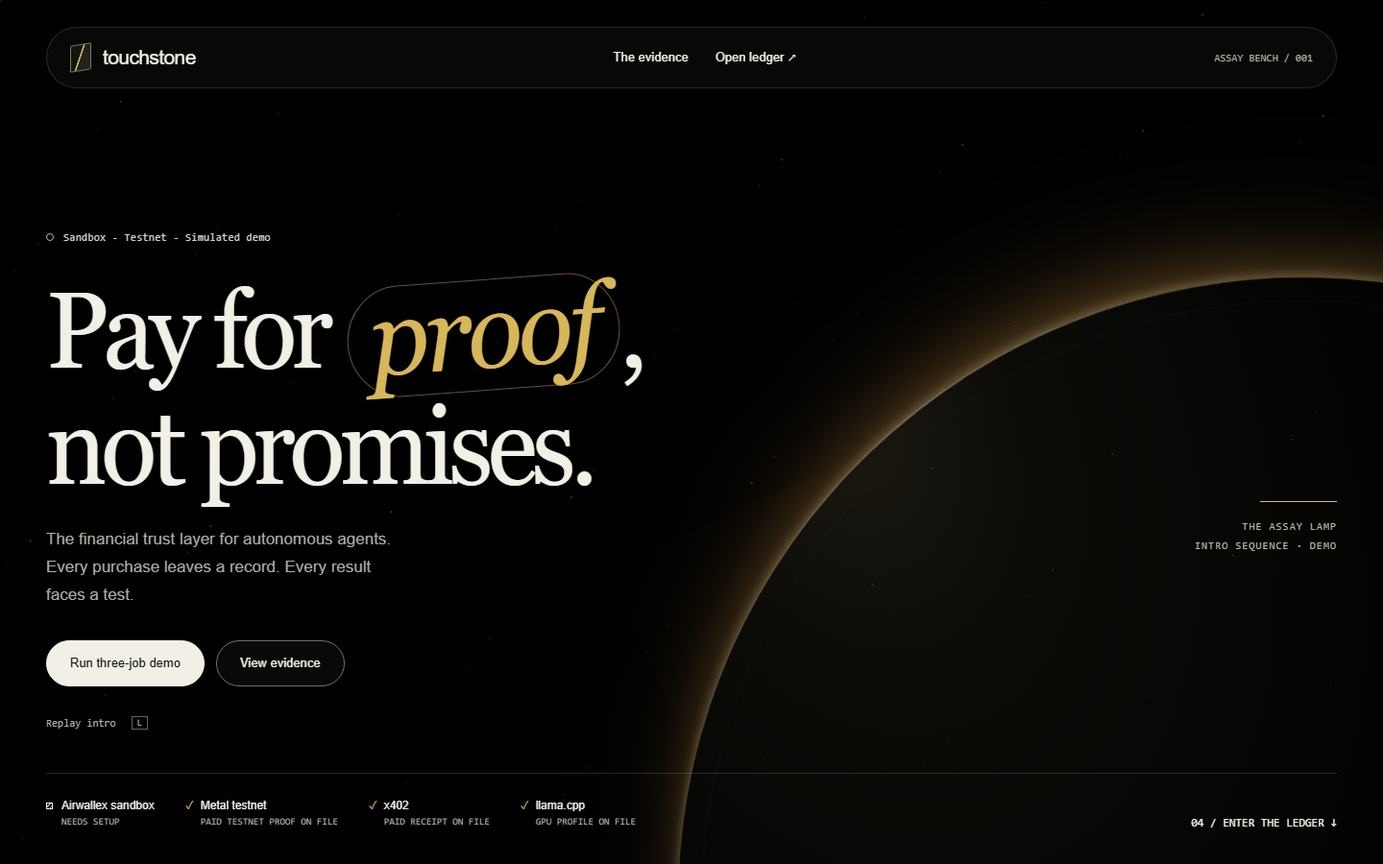
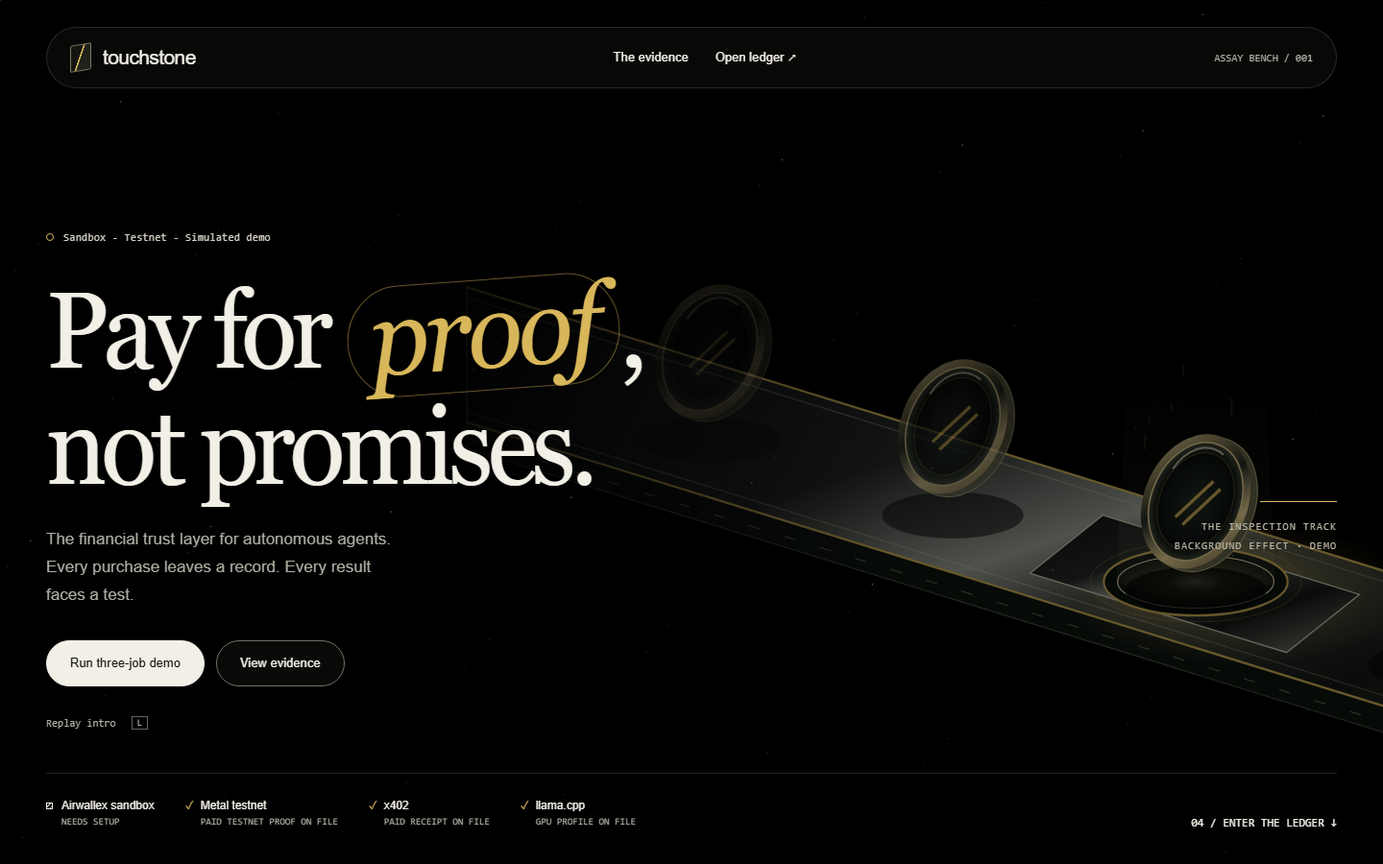
Replace hero horizon with recording-inspired inspection track

diff --git a/apps/dashboard/index.html b/apps/dashboard/index.html
@@ -13,7 +13,7 @@
 :root{color-scheme:dark;--ink:#090a08;--paper:#f2efe6;--gold:#d8b65a;--muted:#adb0a4;--line:#303329;--text:#f2efe6;--surface:#090a08;--green:#8ac595;--amber:#d8b65a;--red:#f07868;--mono:Consolas,monospace;--ease:cubic-bezier(.16,1,.3,1)}
 *{box-sizing:border-box}html{scroll-behavior:smooth;scroll-padding-top:88px}body{margin:0;background:var(--ink);color:var(--text);font:16px/1.5 Arial,sans-serif}button,input,select{font:inherit}button,a,input,select{touch-action:manipulation}button,a{ -webkit-tap-highlight-color:transparent}button{cursor:pointer}button:disabled{cursor:not-allowed;opacity:.48}a{color:inherit;text-underline-offset:4px}a:hover{color:var(--gold)}:focus-visible{outline:3px solid var(--gold);outline-offset:5px}h1,h2,h3,p{margin:0}h2{font-size:26px;font-weight:400;line-height:1.2;letter-spacing:-.7px}h3{font-size:18px;font-weight:500}p{max-width:75ch}em{font-style:normal}button{border:1px solid var(--line);color:inherit;background:transparent}svg{display:block} .hidden{display:none!important}.mono,kbd,.value,.metric-label,.eyebrow,.badge,.pill,.state,.job-id,.job-numbers strong,.section-title>span,.top-status{font-family:var(--mono);font-variant-numeric:tabular-nums} .eyebrow{font-size:12px;letter-spacing:1.4px;text-transform:uppercase} .skip-link{position:fixed;left:24px;top:-100px;z-index:30;padding:12px;background:var(--paper);color:var(--ink)}.skip-link:focus{top:16px}
 /* A single overhead lamp. The atmosphere belongs to the bench, not the UI. */
-.cinematic-hero{height:max(820px,100svh);max-height:1200px;position:relative;isolation:isolate;overflow:hidden;background:#000;color:#f2efe6;--gold:#d8b65a;--line:#303329;--muted:#adb0a4}#starfield{position:absolute;inset:0;width:100%;height:100%;z-index:-3;opacity:.45}.horizon-shift{position:absolute;inset:0;z-index:-2;pointer-events:none;opacity:.48;transition:opacity 300ms var(--ease),filter 300ms var(--ease)}.horizon{position:absolute;width:1300px;height:1300px;left:49%;top:32%;border-radius:50%;background:radial-gradient(ellipse at 32% 0%,#393121 0%,#171710 15%,#050604 41%,#000 68%);border-top:1px solid #e2bd69;box-shadow:0 -4px 12px -3px #f6d58e,0 -28px 70px -36px #d8a34e,0 -90px 150px -100px #b9833f;transform:rotate(-24deg);opacity:0}.horizon:after{content:'';position:absolute;inset:24px;border:1px solid #bcb38b16;border-radius:50%}.rim-highlight{position:absolute;inset:-1px;border-radius:50%;border-top:2px solid #f8e6b8;mask-image:linear-gradient(115deg,transparent 2%,#000 26%,transparent 49%)}.is-active .horizon{animation:ignite 2.5s var(--ease) both}@keyframes ignite{from{opacity:0;transform:translateY(80px) rotate(-24deg)}35%{opacity:.6}to{opacity:1;transform:translateY(0) rotate(-24deg)}}.cinematic-hero:not(.in-view) *,.tab-hidden *{animation-play-state:paused!important}
+.cinematic-hero{height:max(820px,100svh);max-height:1200px;position:relative;isolation:isolate;overflow:hidden;background:#000;color:#f2efe6;--gold:#d8b65a;--line:#303329;--muted:#adb0a4}#starfield{position:absolute;inset:0;width:100%;height:100%;z-index:-3;opacity:.45}.horizon-shift{mask-image:linear-gradient(90deg,transparent 26%,#000 65%);position:absolute;inset:0;z-index:-2;pointer-events:none;opacity:.48;transition:opacity 300ms var(--ease),filter 300ms var(--ease)}.horizon{position:absolute;width:1100px;height:792px;left:46%;top:16%;opacity:0;transform-origin:center}.assay-track{width:100%;height:100%;overflow:visible}.is-active .horizon{animation:ignite 2.5s var(--ease) both}@keyframes ignite{from{opacity:0;transform:translate(-55px,-17px)}35%{opacity:.65}to{opacity:1;transform:translate(0,0)}}body[data-event-light="intro"] .is-active .assay-discs{animation:assay-feed 2.5s var(--ease) both}@keyframes assay-feed{from{transform:translate(-100px,-31px)}to{transform:translate(0,0)}}.scan-beam,.scan-sparks{opacity:.12}body[data-event-light="intro"] .is-active .scan-beam,body[data-event-light="intro"] .is-active .scan-sparks{animation:assay-scan 2.5s var(--ease) both}@keyframes assay-scan{0%,100%{opacity:.12}45%,70%{opacity:.8}}.event-pulse .assay-discs{animation:assay-advance 320ms var(--ease)}.event-pulse .scan-beam{animation:assay-scan 320ms var(--ease)}@keyframes assay-advance{from{transform:translate(-24px,-7.4px)}to{transform:translate(0,0)}}.cinematic-hero:not(.in-view) *,.tab-hidden *{animation-play-state:paused!important}
 body[data-event-light="intro"] .horizon-shift{opacity:1}body[data-event-light="running"] .horizon-shift{opacity:1}body[data-event-light="pause"] .horizon-shift{opacity:.3;filter:saturate(.2)}body[data-event-light="rejected"] .horizon-shift{filter:sepia(.4) saturate(3) hue-rotate(315deg)}body[data-event-light="kill"] .horizon-shift,body[data-event-light="kill"] #starfield{opacity:0!important}.event-pulse .horizon-shift{animation:payment-light 320ms var(--ease)}@keyframes payment-light{50%{filter:brightness(1.5)}}
 .glass-nav{position:absolute;top:28px;left:48px;right:48px;height:64px;display:flex;align-items:center;justify-content:space-between;padding:0 24px;border:1px solid #ffffff24;border-radius:40px;background:#d6d1b10a;backdrop-filter:blur(14px);z-index:2}.brand{display:flex;align-items:center;gap:12px;font-size:21px;letter-spacing:-.6px}.mark{display:inline-block;width:22px;height:28px;background:linear-gradient(110deg,#14150f 43%,#d8b65a 45%,#d8b65a 49%,#20231a 51%);border:1px solid #797867;transform:skewY(-10deg);border-radius:2px}.brand-sub{font:11px var(--mono);letter-spacing:1px;color:var(--muted)}nav{display:flex;gap:28px;align-items:center}nav a{text-decoration:none;font-size:13px;min-height:44px;display:inline-flex;align-items:center}.nav-index{font:11px var(--mono);color:var(--muted)}.hero-copy{position:relative;z-index:1;padding:clamp(192px,26vh,272px) 48px 0;max-width:1000px}.hero-chip{display:inline-flex;align-items:center;gap:10px;font:11px var(--mono);letter-spacing:.3px;color:#d5d1c6}.hero-chip-dot{width:8px;height:8px;border:1px solid #d8b65a;border-radius:50%}#hero-title{font:400 clamp(72px,7.8vw,120px)/1.05 Georgia,serif;letter-spacing:-6px;margin:28px 0 24px;transform:scaleX(.95);transform-origin:left center}.hero-highlight{display:inline-block;font-style:italic;color:var(--gold);border:1px solid #d8b65a77;border-radius:90px;padding:0 24px 8px;line-height:.94;transform:rotate(-4deg);letter-spacing:-5px}.hero-subhead{font-size:17px;line-height:1.7;max-width:360px;color:#adb0a4}.hero-actions{display:flex;gap:12px;margin-top:32px;align-items:center}.hero-button,.btn{display:inline-flex;align-items:center;justify-content:center;min-height:44px;padding:12px 20px;border:1px solid var(--line);font-size:13px;font-weight:500;text-decoration:none;transition:background 150ms var(--ease),border-color 150ms var(--ease)}.hero-button{border-radius:40px;min-height:48px;padding:12px 24px}.hero-primary{background:#f2efe6;color:#151710;border-color:#f2efe6}.hero-primary:hover{background:#d8b65a;border-color:#d8b65a}.hero-secondary{border-color:#707366;color:#f2efe6;background:#090a08}.hero-secondary:hover{background:#20231a;color:#fff}.replay-intro{display:inline-flex;align-items:center;gap:16px;min-height:44px;font:11px var(--mono);color:#adb0a4;border:0;padding:0;margin-top:16px}kbd{border:1px solid #62665a;padding:0 5px;font-size:10px}.assay-caption{position:absolute;right:48px;top:58%;font:11px/1.8 var(--mono);color:#b9b5a4;letter-spacing:1px;text-align:right}.assay-caption:before{content:'';display:block;width:80px;height:1px;background:#d8b65a;margin:0 0 16px auto}.hero-bottom{position:absolute;bottom:36px;left:48px;right:48px;display:flex;justify-content:space-between;align-items:end;border-top:1px solid #ffffff24;padding-top:24px;gap:32px}.hero-bottom>a{font:12px var(--mono);text-decoration:none}.hero-platforms{display:flex;gap:32px}.platform-state{display:grid;grid-template-columns:8px auto;column-gap:8px;align-items:center;font-size:12px}.platform-state small{grid-column:2;font:10px/1.6 var(--mono);color:#adb0a4;max-width:150px}.health-dot,.dot{display:inline-block;width:7px;height:7px;border-radius:50%;background:transparent;border:1px solid currentColor;flex-shrink:0}.health-dot.verified{border:0;border-radius:0;width:auto;height:auto;color:#d8b65a}.health-dot.verified:before{content:'✓'}.health-dot.blocked{border-radius:0;background:repeating-linear-gradient(135deg,transparent 0 2px,#adb0a4 2px 3px)}
 /* Ledger: one ruled worksheet, no stack of glass boxes. */
@@ -21,10 +21,10 @@ main,dialog{--text:#151710;--surface:#f2efe6;--muted:#5d6057;--line:#d0ccbf;--go
 .flow-panel{border-top:1px solid var(--line);padding:32px 0;background:var(--surface)}.flow-heading{display:flex;justify-content:space-between;gap:24px}.flow-heading h2{margin-top:12px}.flow-heading p,.flow-footnote{font-size:12px;color:var(--muted);margin-top:12px}.flow-disclosure{font:10px var(--mono);color:var(--muted);align-self:start;border:1px dashed var(--line);padding:8px}.flow-scroll{overflow-x:auto;margin-top:32px}.flow-track{min-width:650px;position:relative}.flow-svg{display:none}.flow-nodes{display:grid;grid-template-columns:repeat(5,1fr)}.flow-node{border:0;border-top:1px solid var(--line);padding:16px;text-align:left;display:flex;align-items:start;flex-direction:column;gap:12px;min-height:138px}.flow-node:hover{background:color-mix(in srgb,var(--gold) 7%,transparent)}.flow-node+.flow-node{border-left:1px solid var(--line)}.node-icon{font:24px var(--mono);color:var(--gold)}.flow-node strong{font-size:12px;font-weight:400}.node-status{font:9px var(--mono);border:1px solid var(--line);padding:4px 6px}.node-status[data-state="blocked"]:before{content:'▧ '}.flowing .node-icon{animation:receipt-light 320ms var(--ease)}@keyframes receipt-light{50%{opacity:.4}}
 dialog{position:fixed;inset:0 0 0 auto;margin:0;width:min(620px,100%);height:100%;max-height:100%;max-width:100%;border:0;border-left:1px solid var(--line);padding:32px}dialog::backdrop{background:#0009}.drawer-head{display:flex;justify-content:space-between;align-items:center;gap:16px}.drawer-body{margin-top:32px;font-size:13px}.drawer-body pre{margin-top:24px;font-size:11px}#kill-overlay{display:none;position:fixed;bottom:24px;left:24px;right:24px;z-index:20;background:#090a08;color:#f2efe6;border:1px solid #77776c;border-left:4px solid #d8b65a;padding:24px;box-shadow:0 8px 40px #0005}#kill-overlay.active{display:block}.kill-card{display:grid;grid-template-columns:1fr auto;column-gap:32px;align-items:center}.kill-card h2{font:12px var(--mono);letter-spacing:1px}.kill-card p{font-size:12px;color:#adb0a4;margin-top:8px;max-width:700px}.kill-actions{grid-column:2;grid-row:1/3;display:flex;align-items:center;gap:24px;font-size:12px}.kill-actions .btn{--surface:#090a08;--text:#f2efe6;--line:#77776c}.kill-actions a{min-height:44px;display:flex;align-items:center}#kill-error{color:#f07868}body[data-event-light="kill"] #overview{background-image:none}
 #featured-evidence .metrics{grid-template-columns:3fr 2fr 2fr 5fr}#featured-evidence .metric:last-child .value{font-size:32px!important}#featured-evidence .metric:last-child{border-left:2px solid var(--red)}
-@media(min-width:1700px){.horizon{width:1600px;height:1600px;top:25%}.hero-copy{padding-left:80px}main{padding-left:80px;padding-right:80px;background-size:calc((100% - 160px)/12) 100%;background-position:80px 0}}
+@media(min-width:1700px){.horizon{width:1400px;height:1008px;top:8%;left:43%}.hero-copy{padding-left:80px}main{padding-left:80px;padding-right:80px;background-size:calc((100% - 160px)/12) 100%;background-position:80px 0}}
 @media(max-width:1100px){#featured-evidence .metrics{grid-template-columns:1fr 1fr}.glass-nav,.hero-bottom{left:32px;right:32px}.hero-copy{padding-left:32px}#hero-title{font-size:88px}.assay-caption{right:32px;top:62%}.hero-platforms{gap:16px}.platform-state small{max-width:120px}.brand-sub,.ledger-nav .brand{display:none}.ledger-nav nav{gap:16px}main{padding:0 32px;background-size:calc((100% - 64px)/12) 100%;background-position:32px 0}.hero{align-items:start;flex-direction:column}.actions{justify-content:start}.metrics{grid-template-columns:1fr 1fr}.metric:nth-child(3){border-left:0;padding-left:0;border-top:1px solid var(--line)}.metric:nth-child(4){border-top:1px solid var(--line)}.jobs{grid-template-columns:1fr}.job,.job:first-child{padding:24px 0}.job+.job{border-left:0;border-top:1px solid var(--line)}.job-header{flex-direction:row;justify-content:space-between}.two-col{grid-template-columns:1fr}.two-col>:first-child{padding-right:0}.two-col>:last-child{border-left:0;padding-left:0}.provider-row{grid-template-columns:1fr 100px 100px}}
-@media(max-width:600px){.measure-number.has-value strong{font-size:52px;letter-spacing:-3px}.measure-number.has-value{gap:12px}#featured-evidence .metric:last-child .value{font-size:24px!important}html{scroll-padding-top:16px}.cinematic-hero{height:844px;min-height:100svh;max-height:none}.glass-nav{top:20px;left:24px;right:24px;height:56px;padding:0 18px}.glass-nav .nav-index,.glass-nav nav a:first-child{display:none}.glass-nav nav{gap:0}.brand{font-size:19px}.hero-copy{padding:164px 24px 0}#hero-title{font-size:58px;line-height:1.12;letter-spacing:-3px;margin:28px 0 24px;transform:scaleX(.95);transform-origin:left center}.hero-highlight{padding:0 13px 5px;letter-spacing:-3px}.hero-chip{font-size:9px;gap:7px}.hero-subhead{font-size:14px;max-width:285px}.hero-actions{gap:8px;margin-top:24px}.hero-button{font-size:11px;padding:12px 16px}.replay-intro{margin-top:8px}.horizon{width:800px;height:800px;left:18%;top:48%;transform:rotate(-24deg)}.assay-caption{top:66%;right:24px;font-size:9px}.assay-caption:before{width:40px;margin-bottom:8px}.hero-bottom{bottom:24px;left:24px;right:24px;padding-top:16px;align-items:start}.hero-platforms{display:grid;grid-template-columns:1fr 1fr;gap:12px 16px}.platform-state{font-size:10px}.platform-state small{font-size:9px;max-width:135px}.hero-bottom>a{writing-mode:vertical-rl;font-size:10px}.ledger-nav{flex-direction:column;align-items:stretch;gap:0;padding:8px 0}.ledger-nav nav{overflow-x:auto;gap:24px}.ledger-nav nav a{white-space:nowrap;font-size:11px}.nav-tools{justify-content:space-between;gap:16px}.top-status{font-size:10px}main{padding:0 24px;background-size:calc((100% - 48px)/4) 100%;background-position:24px 0}.console-heading{padding:32px 0 24px;display:block}.console-heading h2{font-size:42px}.console-heading p{padding-top:16px;max-width:300px;font-size:12px}.eyebrow{font-size:11px}.assay-measure{grid-template-columns:1fr;margin-bottom:24px}.measure-number{padding:8px 0 16px;gap:24px}.measure-number strong{font-size:104px;letter-spacing:-6px}.measure-number span{font-size:10px}.measure-caption{border-left:0;border-top:1px solid var(--line);padding:20px 0 24px}.measure-caption h3{font-size:18px}.measure-caption p{font-size:11px}.panel{padding:24px 0}h2{font-size:24px}.proof-heading{font-size:30px}.hero h2{font-size:28px}.hero{padding:24px 0}.disclosure{gap:12px;flex-direction:column;font-size:11px}.metric{padding:16px 12px 16px 0}.metric+.metric{padding-left:12px}.metric-label{font-size:10px;min-height:30px}.value{font-size:25px;letter-spacing:-1px}.metric small{font-size:10px}.section-title{display:block;margin-top:24px}.section-title>span{display:block;margin-top:12px}.job-header{flex-direction:column;gap:8px}.provider-row{grid-template-columns:1fr 80px 75px;gap:8px;font-size:11px}.provider-name small{font-size:9px}.mandate-grid{gap:12px}.callout{padding-left:12px;font-size:11px}.flow-heading{flex-direction:column;gap:16px}.flow-heading h2{font-size:24px}.flow-footnote{font-size:11px}.table-wrap{margin-right:-24px;padding-right:24px}.table-wrap:focus-visible{outline-offset:0}.ledger-table{min-width:600px}footer{display:block;font-size:9px;margin-top:32px}.audit-head{text-align:left;margin-top:24px}dialog{padding:24px}.drawer-head h2{font-size:22px}.kill-card{display:block}.kill-actions{margin-top:16px;gap:16px}#kill-overlay{left:12px;right:12px;bottom:12px;padding:20px}.kill-card p{font-size:11px}.hero-bottom .platform-state:last-child{display:grid}}
-@media(prefers-reduced-motion:reduce){html{scroll-behavior:auto}*,*:before,*:after{animation:none!important;transition:none!important}.horizon{opacity:1;transform:rotate(-24deg)}}
+@media(max-width:600px){.horizon-shift{mask-image:linear-gradient(#000 70%,transparent 95%)}.measure-number.has-value strong{font-size:52px;letter-spacing:-3px}.measure-number.has-value{gap:12px}#featured-evidence .metric:last-child .value{font-size:24px!important}html{scroll-padding-top:16px}.cinematic-hero{height:844px;min-height:100svh;max-height:none}.glass-nav{top:20px;left:24px;right:24px;height:56px;padding:0 18px}.glass-nav .nav-index,.glass-nav nav a:first-child{display:none}.glass-nav nav{gap:0}.brand{font-size:19px}.hero-copy{padding:164px 24px 0}#hero-title{font-size:58px;line-height:1.12;letter-spacing:-3px;margin:28px 0 24px;transform:scaleX(.95);transform-origin:left center}.hero-highlight{padding:0 13px 5px;letter-spacing:-3px}.hero-chip{font-size:9px;gap:7px}.hero-subhead{font-size:14px;max-width:285px}.hero-actions{gap:8px;margin-top:24px}.hero-button{font-size:11px;padding:12px 16px}.replay-intro{margin-top:8px}.horizon{width:640px;height:461px;left:-60px;top:43%}.assay-caption{top:66%;right:24px;font-size:9px}.assay-caption:before{width:40px;margin-bottom:8px}.hero-bottom{bottom:24px;left:24px;right:24px;padding-top:16px;align-items:start}.hero-platforms{display:grid;grid-template-columns:1fr 1fr;gap:12px 16px}.platform-state{font-size:10px}.platform-state small{font-size:9px;max-width:135px}.hero-bottom>a{writing-mode:vertical-rl;font-size:10px}.ledger-nav{flex-direction:column;align-items:stretch;gap:0;padding:8px 0}.ledger-nav nav{overflow-x:auto;gap:24px}.ledger-nav nav a{white-space:nowrap;font-size:11px}.nav-tools{justify-content:space-between;gap:16px}.top-status{font-size:10px}main{padding:0 24px;background-size:calc((100% - 48px)/4) 100%;background-position:24px 0}.console-heading{padding:32px 0 24px;display:block}.console-heading h2{font-size:42px}.console-heading p{padding-top:16px;max-width:300px;font-size:12px}.eyebrow{font-size:11px}.assay-measure{grid-template-columns:1fr;margin-bottom:24px}.measure-number{padding:8px 0 16px;gap:24px}.measure-number strong{font-size:104px;letter-spacing:-6px}.measure-number span{font-size:10px}.measure-caption{border-left:0;border-top:1px solid var(--line);padding:20px 0 24px}.measure-caption h3{font-size:18px}.measure-caption p{font-size:11px}.panel{padding:24px 0}h2{font-size:24px}.proof-heading{font-size:30px}.hero h2{font-size:28px}.hero{padding:24px 0}.disclosure{gap:12px;flex-direction:column;font-size:11px}.metric{padding:16px 12px 16px 0}.metric+.metric{padding-left:12px}.metric-label{font-size:10px;min-height:30px}.value{font-size:25px;letter-spacing:-1px}.metric small{font-size:10px}.section-title{display:block;margin-top:24px}.section-title>span{display:block;margin-top:12px}.job-header{flex-direction:column;gap:8px}.provider-row{grid-template-columns:1fr 80px 75px;gap:8px;font-size:11px}.provider-name small{font-size:9px}.mandate-grid{gap:12px}.callout{padding-left:12px;font-size:11px}.flow-heading{flex-direction:column;gap:16px}.flow-heading h2{font-size:24px}.flow-footnote{font-size:11px}.table-wrap{margin-right:-24px;padding-right:24px}.table-wrap:focus-visible{outline-offset:0}.ledger-table{min-width:600px}footer{display:block;font-size:9px;margin-top:32px}.audit-head{text-align:left;margin-top:24px}dialog{padding:24px}.drawer-head h2{font-size:22px}.kill-card{display:block}.kill-actions{margin-top:16px;gap:16px}#kill-overlay{left:12px;right:12px;bottom:12px;padding:20px}.kill-card p{font-size:11px}.hero-bottom .platform-state:last-child{display:grid}}
+@media(prefers-reduced-motion:reduce){html{scroll-behavior:auto}*,*:before,*:after{animation:none!important;transition:none!important}.horizon{opacity:1;transform:none}}
 </style>
 </head>
 <body data-event-light="idle">
@@ -32,9 +32,27 @@ dialog{position:fixed;inset:0 0 0 auto;margin:0;width:min(620px,100%);height:100
 <section class="cinematic-hero" id="intro" aria-labelledby="hero-title">
 <div class="glass-nav"><a class="brand" href="#intro" aria-label="Touchstone home" style="text-decoration:none"><span class="mark" aria-hidden="true"></span>touchstone</a><nav aria-label="Introduction"><a href="#featured-evidence">The evidence</a><a href="#console">Open ledger ↗</a></nav><span class="nav-index">ASSAY BENCH / 001</span></div>
 <canvas id="starfield" aria-hidden="true"></canvas>
-<div class="horizon-shift" aria-hidden="true"><div class="horizon"><div class="rim-highlight"></div></div></div>
+<div class="horizon-shift" aria-hidden="true"><div class="horizon"><svg class="assay-track" viewBox="0 0 1000 720" aria-hidden="true"><defs>
+<linearGradient id="track-metal" x1="0" y1="0" x2=".8" y2="1"><stop stop-color="#101412"/><stop offset=".35" stop-color="#262c29"/><stop offset=".5" stop-color="#a5aaa0"/><stop offset=".58" stop-color="#454c45"/><stop offset=".77" stop-color="#151a16"/><stop offset="1" stop-color="#64695e"/></linearGradient>
+<linearGradient id="disc-rim" x1="0" y1="0" x2="1" y2="1"><stop stop-color="#faf2d8"/><stop offset=".2" stop-color="#a79765"/><stop offset=".45" stop-color="#282e26"/><stop offset=".7" stop-color="#f3dc9c"/><stop offset="1" stop-color="#72633c"/></linearGradient>
+<radialGradient id="disc-face"><stop stop-color="#29322b"/><stop offset=".8" stop-color="#0a100d"/><stop offset="1" stop-color="#434d3c"/></radialGradient>
+<radialGradient id="inspection-light"><stop stop-color="#fff3cc" stop-opacity=".85"/><stop offset=".4" stop-color="#d8b65a" stop-opacity=".25"/><stop offset="1" stop-color="#d8b65a" stop-opacity="0"/></radialGradient>
+<linearGradient id="scan-light" x1="0" y1="0" x2="0" y2="1"><stop stop-color="#f8e8b2" stop-opacity="0"/><stop offset="1" stop-color="#f8e8b2" stop-opacity=".65"/></linearGradient>
+<g id="assay-disc"><ellipse cy="8" rx="67" ry="22" fill="#030504" opacity=".7"/><g transform="translate(0 -76) rotate(23)"><ellipse cx="7" rx="49" ry="66" fill="#68674d" stroke="#b7ad82"/><ellipse rx="49" ry="66" fill="url(#disc-rim)"/><ellipse rx="42" ry="58" fill="url(#disc-face)" stroke="#f0d89a" stroke-width="1.5"/><ellipse rx="34" ry="48" fill="none" stroke="#d8b65a" stroke-opacity=".3"/><path d="M-12 21L8-24M-3 25L17-20" stroke="#d8b65a" stroke-width="3"/><path d="M-32-20C-27-45-10-57 7-51" fill="none" stroke="#fff4d3" stroke-opacity=".7" stroke-width="2"/></g></g>
+</defs>
+<path d="M-160 269L1090 656L1090 681L-160 294Z" fill="#0f1712" stroke="#525a46"/>
+<path d="M-160 141L1090 528L1090 656L-160 269Z" fill="url(#track-metal)" stroke="#9b9f84" stroke-width="1.3"/>
+<path d="M-160 141L1090 528M-160 269L1090 656" fill="none" stroke="#d8b65a" stroke-width="2"/>
+<path d="M-160 151L1090 538M-160 259L1090 646" fill="none" stroke="#f4e6b8" stroke-opacity=".35"/>
+<path d="M-160 284L1090 671" fill="none" stroke="#b5bb9b" stroke-dasharray="11 24" stroke-opacity=".5"/>
+<g class="inspection-station"><ellipse cx="530" cy="420" rx="115" ry="44" fill="url(#inspection-light)"/><ellipse cx="570" cy="430" rx="170" ry="68" fill="url(#inspection-light)"/><path d="M442 357L685 432L616 487L373 412Z" fill="url(#track-metal)" stroke="#d7d7bf" stroke-width="1.2"/><ellipse cx="530" cy="420" rx="87" ry="32" fill="#0d1510" stroke="#d8b65a" stroke-width="2"/><ellipse cx="530" cy="420" rx="74" ry="25" fill="url(#inspection-light)" stroke="#fff1c5"/><ellipse cx="530" cy="420" rx="100" ry="38" fill="none" stroke="#d8b65a" stroke-opacity=".25"/>
+<path class="scan-beam" d="M465 190L595 190L605 420Q530 452 455 420Z" fill="url(#scan-light)"/>
+<path class="scan-sparks" d="M482 280v15m25-45v10m32 24v19m25-57v16m15 35v12m-61-95v12m-32 37v8" stroke="#f9e7b2" stroke-width="1.5"/>
+</g>
+<g class="assay-discs"><use href="#assay-disc" x="70" y="278" opacity=".4"/><use href="#assay-disc" x="300" y="349" opacity=".75"/><use href="#assay-disc" x="530" y="420"/><use href="#assay-disc" x="760" y="491" opacity=".8"/><use href="#assay-disc" x="990" y="562" opacity=".5"/></g>
+</svg></div></div>
 <div class="hero-copy"><div class="hero-chip"><span class="hero-chip-dot"></span>Sandbox - Testnet - Simulated demo</div><h1 id="hero-title">Pay for <span class="hero-highlight">proof</span>,<br>not promises.</h1><p class="hero-subhead">The financial trust layer for autonomous agents. Every purchase leaves a record. Every result faces a test.</p><div class="hero-actions"><button class="hero-button hero-primary" id="hero-demo" disabled>Run three-job demo</button><a class="hero-button hero-secondary" href="#featured-evidence">View evidence</a></div><button type="button" class="replay-intro" id="replay-intro">Replay intro <kbd>L</kbd></button></div>
-<div class="assay-caption" aria-hidden="true">THE ASSAY LAMP<br>INTRO SEQUENCE · DEMO</div><div class="hero-bottom"><div class="hero-platforms" aria-label="Integration readiness"><div class="platform-state"><span class="health-dot pending" id="airwallex-dot"></span><span>Airwallex sandbox</span><small id="airwallex-health">Checking</small></div><div class="platform-state"><span class="health-dot pending" id="metal-dot"></span><span>Metal testnet</span><small id="metal-health">Checking</small></div><div class="platform-state"><span class="health-dot pending" id="x402-dot"></span><span>x402</span><small id="x402-health">Checking</small></div><div class="platform-state"><span class="health-dot pending" id="llama-dot"></span><span>llama.cpp</span><small id="llama-health">Checking</small></div></div><a href="#console">04 / ENTER THE LEDGER ↓</a></div>
+<div class="assay-caption" aria-hidden="true">THE INSPECTION TRACK<br>BACKGROUND EFFECT · DEMO</div><div class="hero-bottom"><div class="hero-platforms" aria-label="Integration readiness"><div class="platform-state"><span class="health-dot pending" id="airwallex-dot"></span><span>Airwallex sandbox</span><small id="airwallex-health">Checking</small></div><div class="platform-state"><span class="health-dot pending" id="metal-dot"></span><span>Metal testnet</span><small id="metal-health">Checking</small></div><div class="platform-state"><span class="health-dot pending" id="x402-dot"></span><span>x402</span><small id="x402-health">Checking</small></div><div class="platform-state"><span class="health-dot pending" id="llama-dot"></span><span>llama.cpp</span><small id="llama-health">Checking</small></div></div><a href="#console">04 / ENTER THE LEDGER ↓</a></div>
 </section>
 
 <main id="overview" aria-label="Working ledger"><header class="ledger-nav"><div class="brand"><span class="mark" aria-hidden="true"></span>the ledger</div><nav aria-label="Ledger"><a href="#payments">Purchases</a><a href="#planning">Decisions</a><a href="#live-policy">Measured trial</a><a href="#benchmark">Simulator</a></nav><div class="nav-tools"><div class="top-status"><span class="dot" id="connection-dot"></span><span id="connection">CONNECTING</span></div><button class="theme-toggle" id="theme-toggle" aria-pressed="false">Dark paper</button></div></header>

diff --git a/tools/check_dashboard_phase1.py b/tools/check_dashboard_phase1.py
@@ -103,8 +103,8 @@ def main():
                     # Pause and seek the actual CSS animation for reproducible timeline captures.
                     # Screenshots are design inspection, not frame-rate evidence.
                     for ms in [0,1000,3000]:
-                        page.evaluate('''ms=>{const a=document.querySelector('.horizon').getAnimations()[0];
-                          if(a){a.pause();a.currentTime=Math.min(ms,2500);}starProgress=ms;paintStars();}''',ms)
+                        page.evaluate('''ms=>{for(const a of document.querySelector('.horizon').getAnimations({subtree:true})){
+                          a.pause();a.currentTime=Math.min(ms,2500);}starProgress=ms;paintStars();}''',ms)
                         if ms >= 2500:
                             page.evaluate('finishIntro()')
                             page.wait_for_timeout(350)

diff --git a/docs/evidence/design-phase1/README.md b/docs/evidence/design-phase1/README.md
@@ -4,8 +4,8 @@
 
 ## Changed
 
-- One inline design system: ink, bone, assay gold; three system font families; no font downloads. The self-contained HTML is under 80 KB.
-- Asymmetric ignition scene, original stone-streak mark, warm horizon, finite star reveal, pill navigation, keyboard replay (`L`) and explicit demo disclosure.
+- One inline design system: ink, bone, assay gold; three system font families; no font downloads. The self-contained HTML is under 85 KB.
+- Asymmetric ignition scene, original stone-streak mark, metallic inspection track inspired by the supplied recording, finite star reveal, pill navigation, keyboard replay (`L`) and explicit demo disclosure.
 - A ruled Ledger with a 12-column desktop grid, light/dark paper, a gated cost-per-correct figure, flat evidence sections and a receipt-like decision tape. All existing operational panels and controls remain.
 - No startup balances, task counts or provider quotes are invented. The main cost figure requires a reconciled qualifying paid report; mixed measured payments and simulated check fees stay disclosed.
 - Confirmed halt overrides every lamp effect. Reconnect/initial history does not replay payment pulses. Reduced motion is static; the star loop ends after ignition and pauses off-screen. Hidden-tab handlers cancel its frame request and pause CSS animation.
@@ -68,3 +68,9 @@ Additional inspection: [dark paper](desktop-ledger-dark.png), [reduced motion](d
 - Airwallex fiat and Metal testnet accounts remain separate; no bridge is implied.
 - Hidden-tab handling is implemented; a hardware rendering/hidden-window profile and broader assistive-technology review remain manual checks. No 60fps claim is made.
 - Phase 2 (mandate, stone, loop and event-linked receipt slabs) and Phase 3 (guardrail scene) await their review gates. Phase 1 stops here.
+
+## Background revision
+
+The subsequent user instruction withdrew the Metal screenshot and supplied a 10.67-second screen recording. The background now recreates its upright discs, metallic conveyor and circular scan light with original inline SVG/CSS and gold assay marks. The source recording is not bundled, and its currency symbols, copy and cursor are not reproduced. The Metal-style glyph ring is no longer the design direction.
+
+The 2.5-second introductory feed is labelled DEMO; it creates no ledger records. Later scan/feed pulses use received payment events. Static reduced motion and confirmed-halt blackout remain. The desktop track fades before the headline; the mobile track is positioned below the copy. Updated screenshots and browser JSON describe this revision.

diff --git a/docs/DESIGN.md b/docs/DESIGN.md
@@ -119,3 +119,10 @@ At each phase, perform the squint test (one focal point and one primary action),
 Acceptance after each implemented phase: full `python -m unittest discover -s tests -v` plus existing Node tests; isolated mock-demo browser checks for run, SSE reconnect without duplicate effects, approval/resume, kill/error paths and session-token rejection. Use temporary test data, no financial service or wallet. Exercise keyboard, focus return, reduced motion on/off, hidden-tab suspension and no external requests. Keep the HTML below about 250KB, with inline CSS/JS and no new runtime dependencies or security changes.
 
 Capture implemented scenes at **1440×900 and 390×844**, with Scene 1 at **t=0, 1s and 3s**; include reduced-motion final states, empty evidence, rejection and confirmed halt. Reserve art/chart/table dimensions to avoid layout shift. Measure Chrome rendering performance before claiming 60fps. Final phase reports list changes, removals, test/screenshot evidence, unresolved data sources and limits. No screenshot, test or performance claim is made by this brief.
+
+
+## Reference revision — 2026-11-03
+
+The user withdrew the Metal screenshot reference and supplied a screen recording of upright discs moving over a metallic track with a circular inspection light. This recording now guides the background effect. Do not use the withdrawn image or its glyph ring. Recreate the motion and depth with original inline SVG/CSS, assay marks and the existing gold palette; do not embed the recording, its currency marks, pointer or promotional text.
+
+The hero horizon is replaced by an inspection track. Its introductory movement is explicitly DEMO and stops after ignition; subsequent scanning pulses follow received payment events. These decorative discs are not ledger records or currency transfers. Reduced motion is static, off-screen/hidden animation pauses, and confirmed halt turns the light off. The earlier proposed Metal-inspired orbit is superseded; any later receipt composition should use this track direction and remain bound to real event records. Existing evidence labels, account separation and financial controls remain unchanged.
